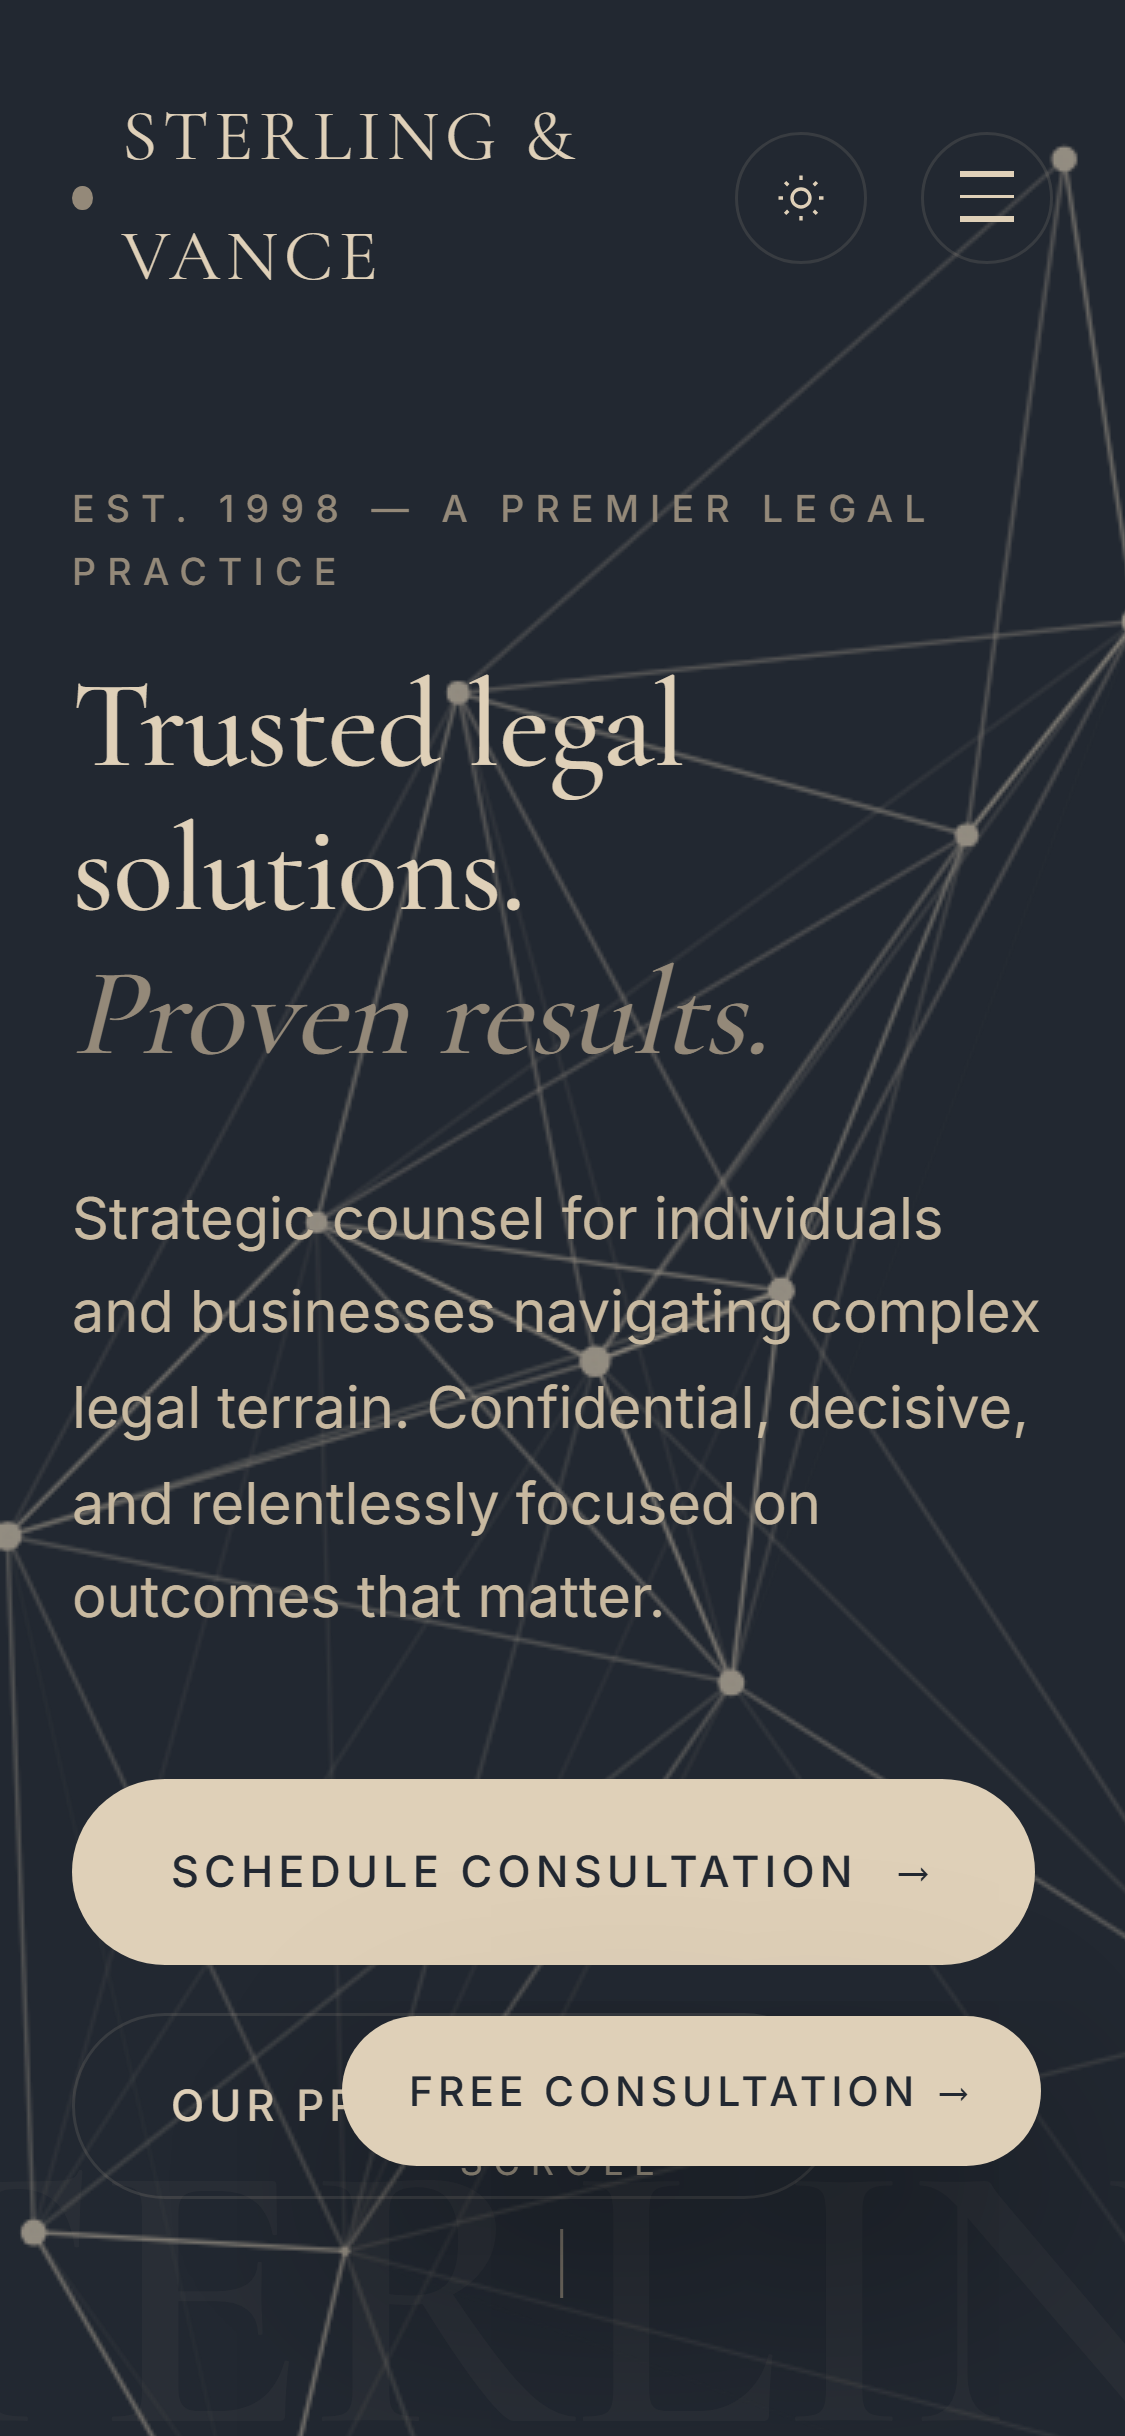
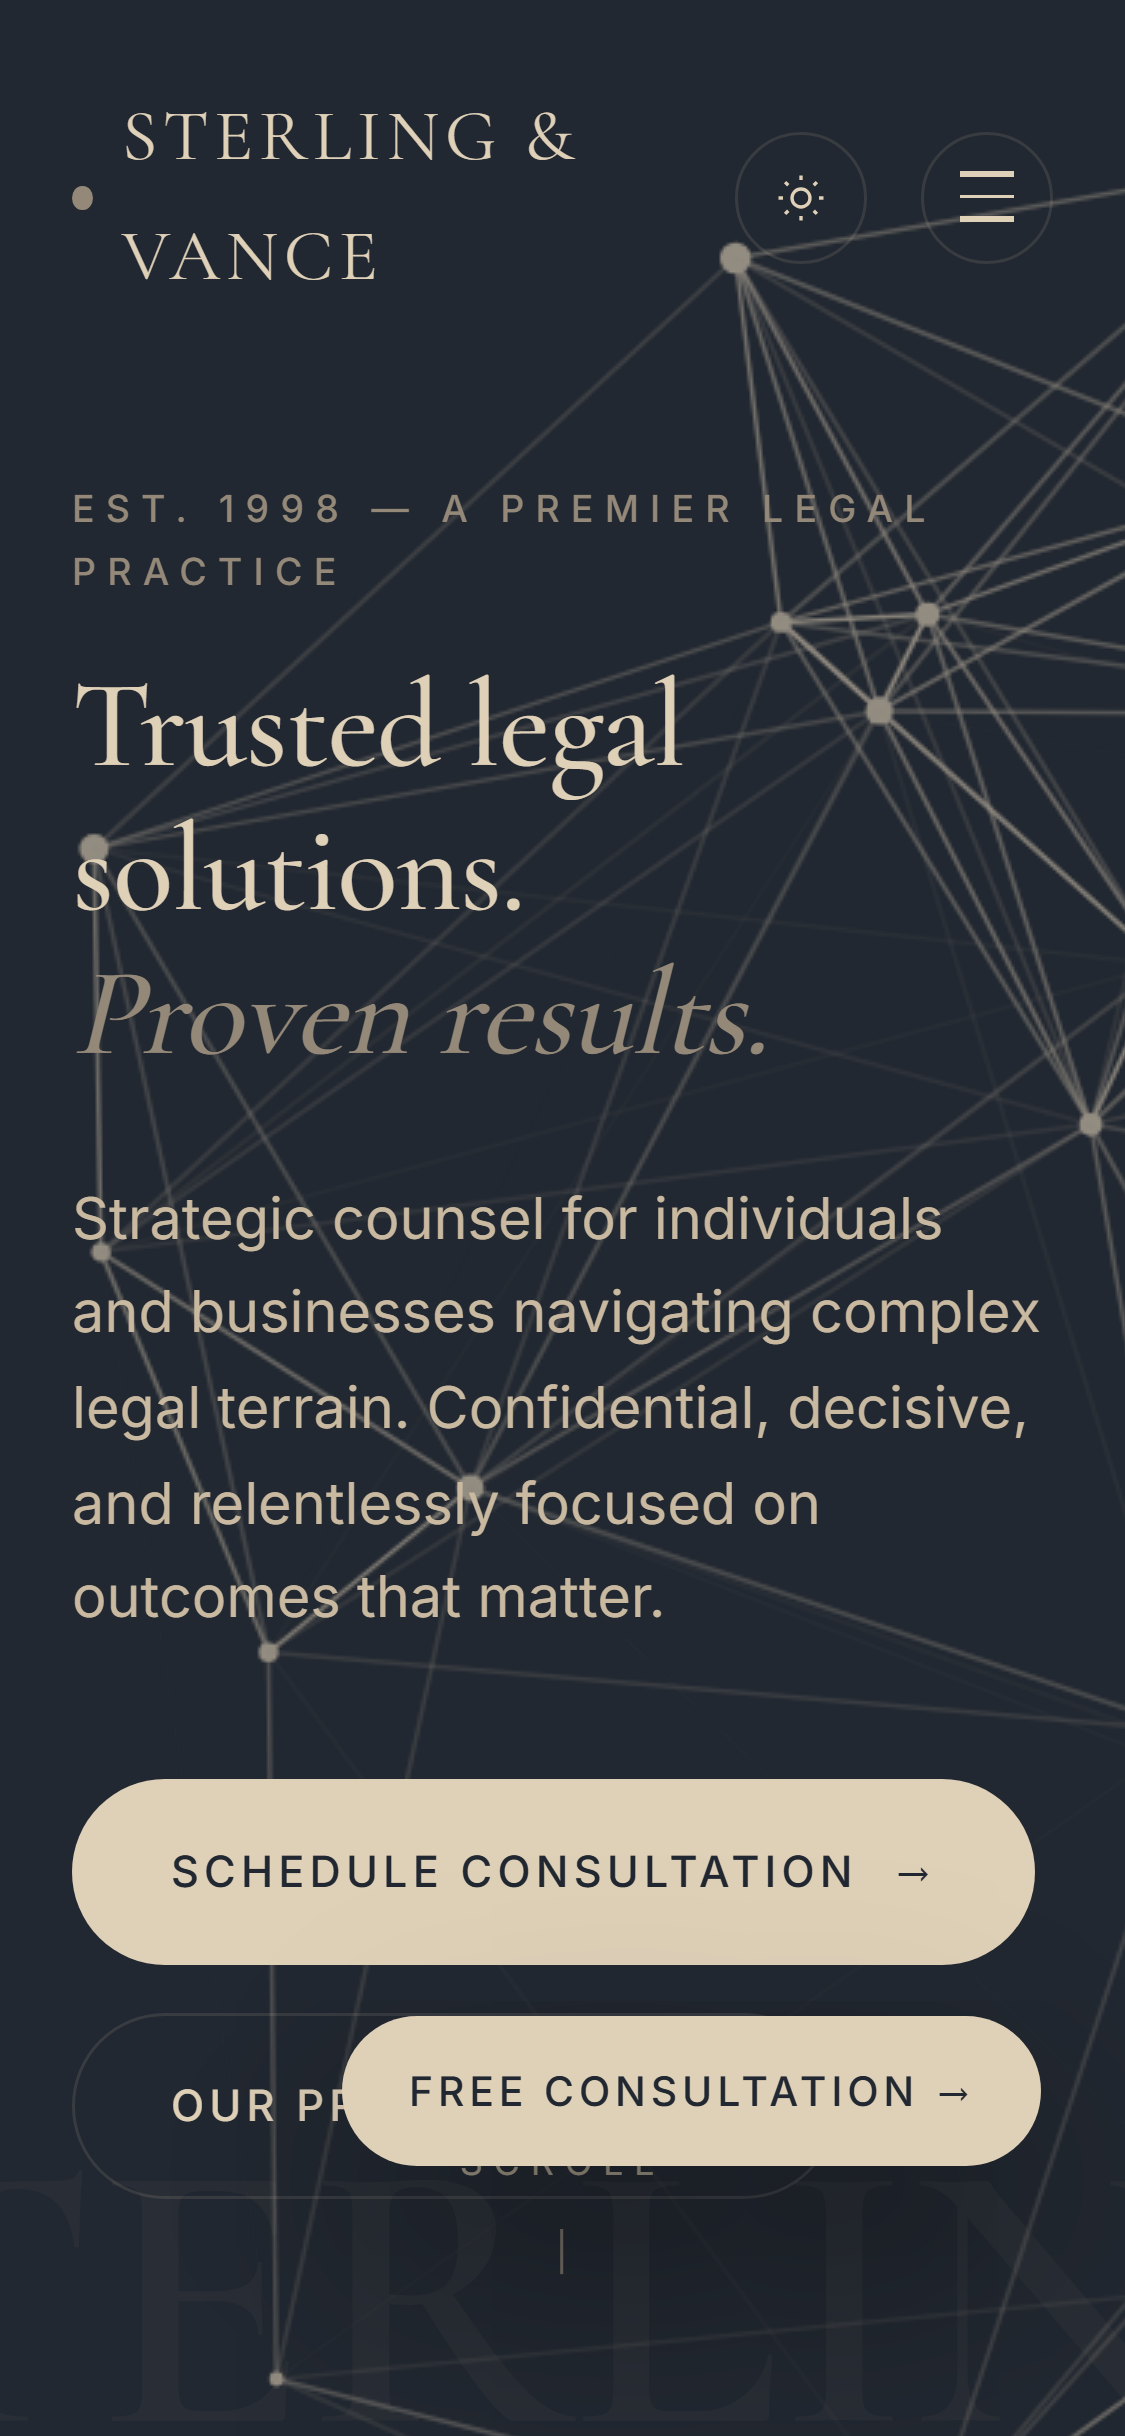
fix: replace CSS pseudo-element APEX text with STERLING and bump cache-busting version

diff --git a/work.html b/work.html
@@ -124,7 +124,7 @@
                                             <span class="macbook-led"></span>
                                         </div>
                                         <div class="macbook-viewport">
-                                            <img src="images/sterling-desktop.png?v=2" alt="Sterling & Vance Corporate Law Desktop" class="macbook-img" />
+                                            <img src="images/sterling-desktop.png?v=3" alt="Sterling & Vance Corporate Law Desktop" class="macbook-img" />
                                         </div>
                                         <div class="macbook-reflection"></div>
                                     </div>
@@ -136,7 +136,7 @@
                                     <div class="iphone-screen">
                                         <div class="iphone-island"></div>
                                         <div class="iphone-viewport">
-                                            <img src="images/sterling-mobile.png?v=2" alt="Sterling & Vance Corporate Law Mobile" class="iphone-img" />
+                                            <img src="images/sterling-mobile.png?v=3" alt="Sterling & Vance Corporate Law Mobile" class="iphone-img" />
                                         </div>
                                         <div class="iphone-reflection"></div>
                                         <div class="iphone-home-bar"></div>
@@ -168,7 +168,7 @@
                                             <span class="macbook-led"></span>
                                         </div>
                                         <div class="macbook-viewport">
-                                            <img src="images/gilded-desktop.png?v=2" alt="The Gilded Fork Restaurant Desktop" class="macbook-img" />
+                                            <img src="images/gilded-desktop.png?v=3" alt="The Gilded Fork Restaurant Desktop" class="macbook-img" />
                                         </div>
                                         <div class="macbook-reflection"></div>
                                     </div>
@@ -180,7 +180,7 @@
                                     <div class="iphone-screen">
                                         <div class="iphone-island"></div>
                                         <div class="iphone-viewport">
-                                            <img src="images/gilded-mobile.png?v=2" alt="The Gilded Fork Restaurant Mobile" class="iphone-img" />
+                                            <img src="images/gilded-mobile.png?v=3" alt="The Gilded Fork Restaurant Mobile" class="iphone-img" />
                                         </div>
                                         <div class="iphone-reflection"></div>
                                         <div class="iphone-home-bar"></div>

diff --git a/clients/sterling-vance/styles.css b/clients/sterling-vance/styles.css
@@ -1,4 +1,4 @@
-/* Apex Legal Group — Parallax Immersive Theme */
+/* Sterling & Vance — Parallax Immersive Theme */
 :root {
   --charcoal: #222831;
   --gunmetal: #393E46;
@@ -237,7 +237,7 @@ body.intro-done .hero-scroll {
 }
 .menu-overlay.open { opacity: 1; visibility: visible; }
 .menu-overlay::before {
-  content: 'APEX'; position: absolute; font-family: var(--serif);
+  content: 'STERLING'; position: absolute; font-family: var(--serif);
   font-size: clamp(12rem, 30vw, 26rem); color: rgba(223,208,184,.04);
   font-weight: 600; letter-spacing: .05em; pointer-events: none;
   top: 50%; left: 50%; transform: translate(-50%, -50%);
